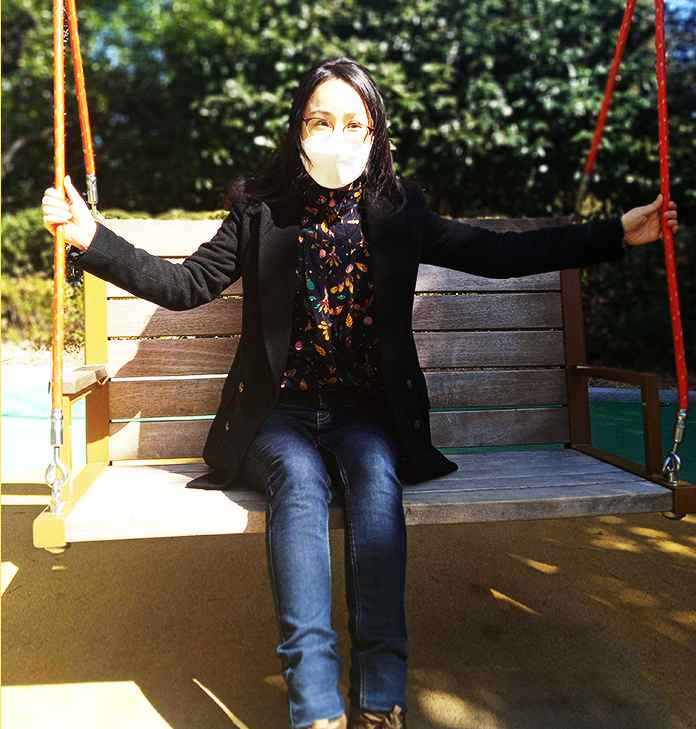
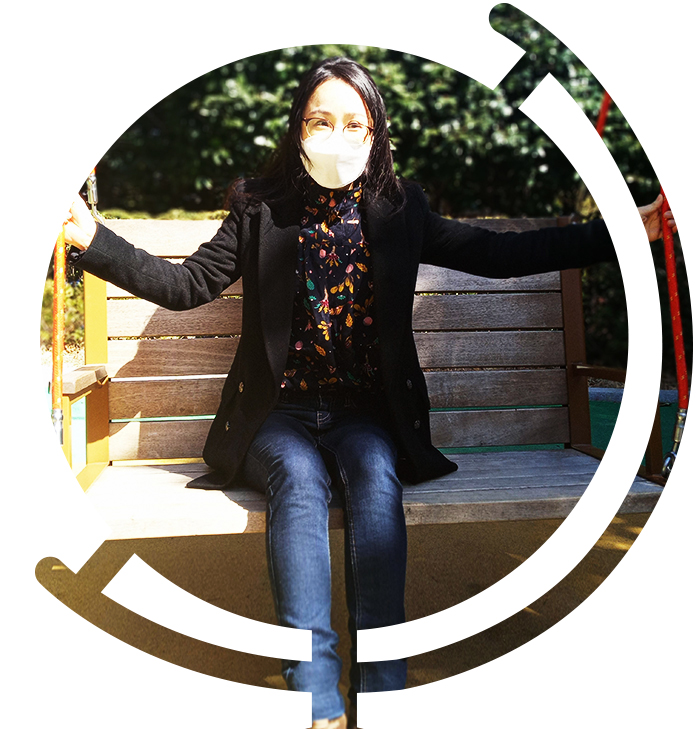
Add files via upload

diff --git a/index.html b/index.html
@@ -95,7 +95,7 @@
             </div>
             <div class="col-md-6 about-img-div">
                 <div class="about-border" data-aos="fade-up" data-aos-delay=".5"></div>
-                <img src="img/about-img.jpg" width="400" alt="" align="right" data-aos="fade-right"
+                <img src="img/about-img.png" width="400" alt="" align="right" data-aos="fade-right"
                     data-aos-delay="0" />
             </div>
         </div>
@@ -295,7 +295,7 @@
                             <li data-percent="80"><span class="text">Ps</span><span
                                     class="bar-circle-right"></span><span class="bar-circle-left"></span><span
                                     class="bar-circle-cover"></span><b></b></li>
-                            <li data-percent="70"><span class="text">Ai</span><span
+                            <li data-percent="60"><span class="text">Ai</span><span
                                     class="bar-circle-right"></span><span class="bar-circle-left"></span><span
                                     class="bar-circle-cover"></span><b></b></li>
                             <li data-percent="80"><span class="text">Web</span><span

diff --git a/css/style.css b/css/style.css
@@ -435,8 +435,6 @@ a.active {
 .about-img-div img {
     margin: 0 auto; 
    
-
-    border-radius: 50%;
 }
 
 }
@@ -1039,7 +1037,7 @@ fieldset {
 	.container h2{
 		text-align:right;
 		font-size:60px;
-		color:#425BB5;
+		color:#fff;
 		font-family: 'Lato', sans-serif;
 	}
 	.dia{
